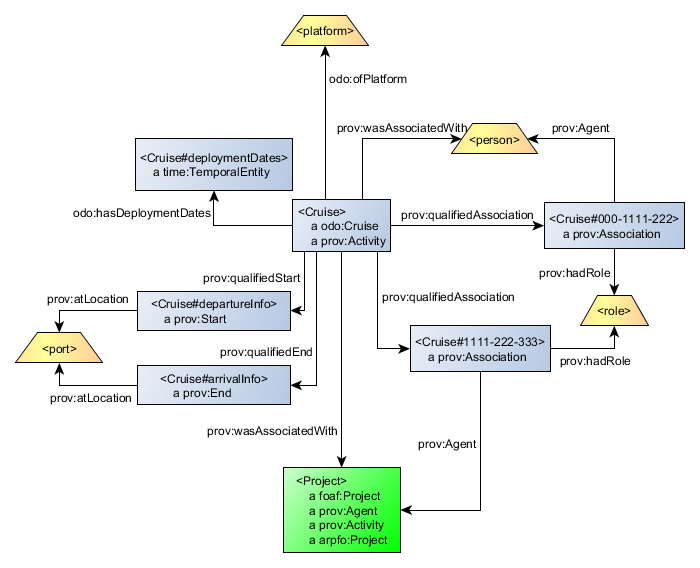
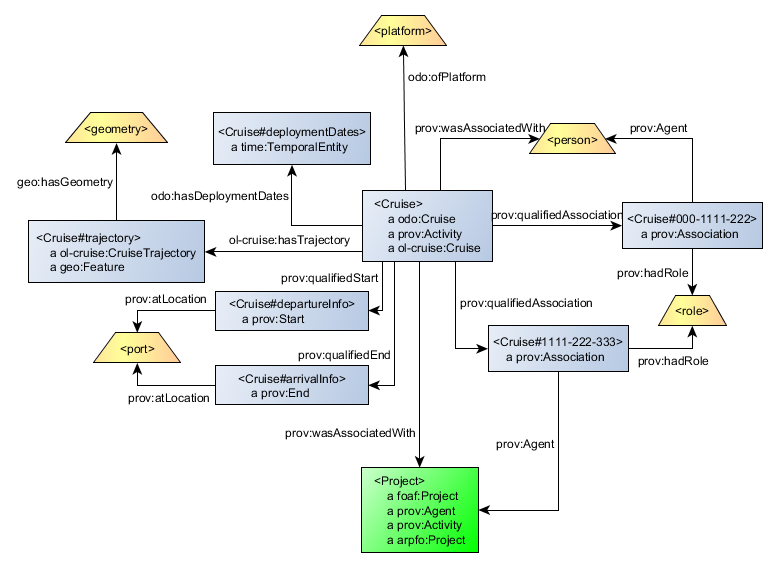
Added feature / geometry pattern to cruise

diff --git a/README.md b/README.md
@@ -20,13 +20,15 @@ references to domain specific ontologies (such as the Ocean Data Ontology,
 Contents
 --------
 
-1. [Namespaces Used][] A list of the [RDF][rdf] namespaces used within 
+1.[Namespaces Used][] A list of the [RDF][rdf] namespaces used within 
 this document
-2. [Worshop Participants][] A list of organisations represented at the 
+2. [Cruise] The Linked Data pattern decided upon to describe a research cruise
+3. [Dataset] The Linked Data pattern decided upon to describe a dataset
+4. [Workshop Participants][] A list of organisations represented at the 
 workshop
-3. [To-Do][] A list of remaining action items in the generation of this 
+5. [To-Do][] A list of remaining action items in the generation of this 
 document
-4. [Files][] A description of the file set presented within the GitHub 
+6. [Files][] A description of the file set presented within the GitHub 
 repository
 
 Namespaces Used
@@ -35,16 +37,26 @@ Namespaces Used
 + dcat [http://www.w3.org/ns/dcat#][]
 + dcterms [http://www.purl.org/dc/terms/][]
 + foaf [http://xmlns.com/foaf/0.1/][]
++ geo [http://www.opengis.net/ont/geosparql#][]
 + obs [http://def.seegrid.csiro.au/isotc211/iso19156/2011/observation#][]
 + obs-prop [http://environment.data.gov.au/def/op#][]
 + odo [http://ocean-data.org/schema/][]
++ ol-cruise [http://schema.oceanlink.org/cruise#][]
 + prov [http://www.w3.org/ns/prov#][]
 + rdf [http://www.w3.org/1999/02/22-rdf-syntax-ns#][]
++ sf [http://www.opengis.net/ont/sf#][]
 + time [http://www.w3.org/2006/time#][]
 
 Cruise
 ------
 ![](https://raw.githubusercontent.com/LinkedOceanData/smackdown-results/master/cruise/CruisePattern.png)
+
+A cruise is a discrete deployment of a platform (normally a research vessel)
+which has a trajectory from a port to another, or returning to the port of 
+departure. The cruise itself is not a geographic feature, its trajectory is,
+therefore an intermediate resource for the trajectory must be instantiated to
+which the geometry can be assigned. The linkage is made using classes and
+properties from the [OceanLink][] ontology.
 
 Dataset
 -------
@@ -63,9 +75,6 @@ relationship) and no rank or instrument order should be inferred from the use
 of these properties. Similarly, the use of odo:hasObservedProperty to state 
 the discovery level descriptions of the observed properties within a dataset is
 both optional and repeatable.
-
-Feature
--------
 
 Geometry
 --------
@@ -106,7 +115,6 @@ Florida State University, USA
 
 To-Do
 -----
-1. Add the geometry discussion results to the cruise example
 
 Files
 -----
@@ -126,11 +134,16 @@ Ocean Data created during the meeting.
 [/dataset]: https://github.com/LinkedOceanData/smackdown-results/tree/master/dataset
 [/observation]: https://github.com/LinkedOceanData/smackdown-results/tree/master/observation
 [/project]: https://github.com/LinkedOceanData/smackdown-results/tree/master/project
+[Cruise]: #cruise
 [data-model.ttl]: https://github.com/LinkedOceanData/smackdown-results/blob/master/data_model.ttl
+[Dataset]: #dataset
 [Files]: #files
 [http://def.seegrid.csiro.au/isotc211/iso19156/2011/observation#]: http://def.seegrid.csiro.au/isotc211/iso19156/2011/observation#
 [http://environment.data.gov.au/def/op#]: http://environment.data.gov.au/def/op#
 [http://ocean-data.org/schema/]: http://ocean-data.org/schema/
+[http://schema.oceanlink.org/cruise#]: http://schema.oceanlink.org/cruise
+[http://www.opengis.net/ont/geosparql#]: http://www.opengis.net/ont/geosparql#
+[http://www.opengis.net/ont/sf#]: http://www.opengis.net/ont/sf#
 [http://www.purl.org/dc/terms/]: http://www.purl.org/dc/terms/
 [http://vocab.ox.ac.uk/projectfunding#]: http://vocab.ox.ac.uk/projectfunding#
 [http://www.w3.org/1999/02/22-rdf-syntax-ns#]: http://www.w3.org/1999/02/22-rdf-syntax-ns#
@@ -140,9 +153,10 @@ Ocean Data created during the meeting.
 [http://xmlns.com/foaf/0.1/]: http://xmlns.com/foaf/0.1/
 [Namespaces Used]: #namespaces-used
 [odo]: http://www.ocean-data.org/
+[OceanLink]: http://schema.oceanlink.org/
 [om]: http://www.opengeospatial.org/standards/om
 [prov]: http://www.w3.org/TR/2013/NOTE-prov-overview-20130430/
 [rdf]: http://www.w3.org/RDF/
 [samos]: http://samos.coaps.fsu.edu/html/
 [To-Do]: #to-do
-[Worshop Participants]: #workshop-participants
+[Workshop Participants]: #workshop-participants
